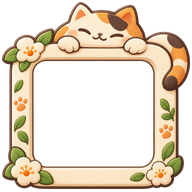
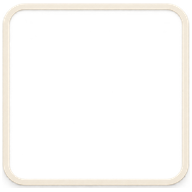
Complete ui assets: panel

diff --git a/app/assets/ui/provenance/prompts-panel.md b/app/assets/ui/provenance/prompts-panel.md
@@ -1,0 +1,102 @@
+# UI assets: panel
+
+Built-in image_gen; camera scrims and soft shadow retain the procedural corrections from commit e79fd55. References: docs/ui-reference/01-home.webp,02-zukan.webp,03-deai.webp,04-world.webp (style only, no crops).
+
+## panel/card-cream.png
+
+Final: 192x192 PNG.
+
+Prompt: Create one empty cream square UI card asset, final192x192, rounded radius48 corners, target iOS cozy cat collection UI. Warm #FFF8F0 lightly textured paper, very subtle puffy edge upper-left ivory highlight, soft low contrast downward shadow. Straight-on, no perspective, no text, no icons, no decoration. Plain stretch-safe center and edge middle bands24px minimum for9slice. Card fills canvas except tiny shadow clearance. Real transparent background clean alpha no matte. Match reference app cream cards.
+
+Processing: Trim alpha margin and proportionally fit exact canvas without stretching
+
+Source: C:\Users\User\.codex\generated_images\01a16dc8-84e9-7e73-953c-375657e785a2\exec-843ea2d4-22b9-4ae5-97b1-143df2ce0b25.png
+
+## panel/card-white.png
+
+Final: 192x192 PNG.
+
+Prompt: Create ONE standalone production raster UI asset for Nekomobby cozy Japanese iOS collection game: Blank white card radius48 9slice. File panel/card-white.png. Target aspect 192:192, final exact 192x192px. Warm cream #FFF8F0 dark brown #4A3B32 orange #F28B20 green #5E9B3F. Restrained warm paper texture, thick rounded shapes, subtle upper-left illumination and very low contrast downward shadow. Minimal bevel, avoid thick glossy plastic. Absolutely NO text letters numbers labels or watermark. Orthographic straight-on isolated graphic, clean simple silhouette, centered with small clearance. True transparent background, smooth clean alpha no white matte no stray flecks. Not a screen mockup. Match docs/ui-reference cozy style.
+
+Processing: Trim alpha margin and proportionally fit exact canvas without stretching
+
+Source: C:\Users\User\.codex\generated_images\01a16dc8-84e9-7e73-953c-375657e785a2\exec-62e847bc-9f92-4706-a8eb-20f6c5219e03.png
+
+## panel/card-selected.png
+
+Final: 192x192 PNG.
+
+Prompt: Create ONE standalone production raster UI asset for Nekomobby cozy Japanese iOS collection game: Blank cream card orange border radius48 9slice. File panel/card-selected.png. Target aspect 192:192, final exact 192x192px. Warm cream #FFF8F0 dark brown #4A3B32 orange #F28B20 green #5E9B3F. Restrained warm paper texture, thick rounded shapes, subtle upper-left illumination and very low contrast downward shadow. Minimal bevel, avoid thick glossy plastic. Absolutely NO text letters numbers labels or watermark. Orthographic straight-on isolated graphic, clean simple silhouette, centered with small clearance. True transparent background, smooth clean alpha no white matte no stray flecks. Not a screen mockup. Match docs/ui-reference cozy style.
+
+Processing: Trim alpha margin and proportionally fit exact canvas without stretching
+
+Source: C:\Users\User\.codex\generated_images\01a16dc8-84e9-7e73-953c-375657e785a2\exec-7bdedffe-f7af-4e46-8259-6b338d7d9b64.png
+
+## panel/card-locked.png
+
+Final: 192x192 PNG.
+
+Prompt: Edit this empty cream card. Change only fill to muted grey beige for an unowned state. Keep same rounded square geometry and understated soft paper shading. Completely EMPTY interior. No lock no icons no leaves no flowers no cat no decoration. True transparent surrounding background. Final192x192.
+
+Processing: Trim alpha margin and proportionally fit exact canvas without stretching
+
+Source: C:\Users\User\.codex\generated_images\01a16dc8-84e9-7e73-953c-375657e785a2\exec-711f1af1-5262-4d2c-b00b-ff1a2f8a318f.png
+
+Superseded attempt: C:\Users\User\.codex\generated_images\01a16dc8-84e9-7e73-953c-375657e785a2\exec-e8cac899-c8ce-4486-9dfb-badf08e8c3fb.png
+
+Prompt: Create ONE standalone production raster UI asset for Nekomobby cozy Japanese iOS collection game: Blank muted beige card radius48 9slice. File panel/card-locked.png. Target aspect 192:192, final exact 192x192px. Warm cream #FFF8F0 dark brown #4A3B32 orange #F28B20 green #5E9B3F. Restrained warm paper texture, thick rounded shapes, subtle upper-left illumination and very low contrast downward shadow. Minimal bevel, avoid thick glossy plastic. Absolutely NO text letters numbers labels or watermark. Orthographic straight-on isolated graphic, clean simple silhouette, centered with small clearance. True transparent background, smooth clean alpha no white matte no stray flecks. Not a screen mockup. Match docs/ui-reference cozy style.
+
+## panel/frame-cat-photo.png
+
+Final: 192x192 PNG.
+
+Prompt: Single simple empty ivory rounded square photo frame. Thin cream border only radius36 at final192x192. Center completely transparent. NO cats NO figures NO flowers NO leaves NO motifs NO text. Plain understated paper surface soft downward shadow. Orthographic front view. True transparency.
+
+Processing: Trim alpha margin and proportionally fit exact canvas without stretching
+
+Source: C:\Users\User\.codex\generated_images\01a16dc8-84e9-7e73-953c-375657e785a2\exec-2581382b-1f69-4954-8951-1c8489e78cc8.png
+
+Superseded attempt: C:\Users\User\.codex\generated_images\01a16dc8-84e9-7e73-953c-375657e785a2\exec-d475896e-df8b-4457-ac88-efb6302b020a.png
+
+Prompt: Create ONE standalone production raster UI asset for Nekomobby cozy Japanese iOS collection game: Hollow cream photo frame radius36 transparent central opening. File panel/frame-cat-photo.png. Target aspect 192:192, final exact 192x192px. Warm cream #FFF8F0 dark brown #4A3B32 orange #F28B20 green #5E9B3F. Restrained warm paper texture, thick rounded shapes, subtle upper-left illumination and very low contrast downward shadow. Minimal bevel, avoid thick glossy plastic. Absolutely NO text letters numbers labels or watermark. Orthographic straight-on isolated graphic, clean simple silhouette, centered with small clearance. True transparent background, smooth clean alpha no white matte no stray flecks. Not a screen mockup. Match docs/ui-reference cozy style.
+
+## panel/pill-info.png
+
+Final: 300x132 PNG.
+
+Prompt: Create ONE standalone production raster UI asset for Nekomobby cozy Japanese iOS collection game: Blank cream information pill radius66 9slice. File panel/pill-info.png. Target aspect 300:132, final exact 300x132px. Warm cream #FFF8F0 dark brown #4A3B32 orange #F28B20 green #5E9B3F. Restrained warm paper texture, thick rounded shapes, subtle upper-left illumination and very low contrast downward shadow. Minimal bevel, avoid thick glossy plastic. Absolutely NO text letters numbers labels or watermark. Orthographic straight-on isolated graphic, clean simple silhouette, centered with small clearance. True transparent background, smooth clean alpha no white matte no stray flecks. Not a screen mockup. Match docs/ui-reference cozy style.
+
+Processing: Trim alpha margin and proportionally fit exact canvas without stretching
+
+Source: C:\Users\User\.codex\generated_images\01a16dc8-84e9-7e73-953c-375657e785a2\exec-03cec8cb-2d57-4ea7-be81-8741a279552d.png
+
+## panel/pill-currency.png
+
+Final: 420x132 PNG.
+
+Prompt: Create ONE standalone production raster UI asset for Nekomobby cozy Japanese iOS collection game: Blank cream currency pill radius66 9slice. File panel/pill-currency.png. Target aspect 420:132, final exact 420x132px. Warm cream #FFF8F0 dark brown #4A3B32 orange #F28B20 green #5E9B3F. Restrained warm paper texture, thick rounded shapes, subtle upper-left illumination and very low contrast downward shadow. Minimal bevel, avoid thick glossy plastic. Absolutely NO text letters numbers labels or watermark. Orthographic straight-on isolated graphic, clean simple silhouette, centered with small clearance. True transparent background, smooth clean alpha no white matte no stray flecks. Not a screen mockup. Match docs/ui-reference cozy style.
+
+Processing: Trim alpha margin and proportionally fit exact canvas without stretching
+
+Source: C:\Users\User\.codex\generated_images\01a16dc8-84e9-7e73-953c-375657e785a2\exec-06e79285-b9e3-4a2d-89a4-33866d0b7892.png
+
+## panel/polaroid.png
+
+Final: 360x420 PNG.
+
+Prompt: Create ONE standalone production raster UI asset for Nekomobby cozy Japanese iOS collection game: Ivory polaroid frame transparent photo opening x24 y24 width312 height312, lower border84. File panel/polaroid.png. Target aspect 360:420, final exact 360x420px. Warm cream #FFF8F0 dark brown #4A3B32 orange #F28B20 green #5E9B3F. Restrained warm paper texture, thick rounded shapes, subtle upper-left illumination and very low contrast downward shadow. Minimal bevel, avoid thick glossy plastic. Absolutely NO text letters numbers labels or watermark. Orthographic straight-on isolated graphic, clean simple silhouette, centered with small clearance. True transparent background, smooth clean alpha no white matte no stray flecks. Not a screen mockup. Match docs/ui-reference cozy style.
+
+Processing: Piecewise resize generated frame borders to exact24/24/84/24 margins; transparent312x312 aperture
+
+Source: C:\Users\User\.codex\generated_images\01a16dc8-84e9-7e73-953c-375657e785a2\exec-b9067f11-7bf4-4e24-a2b2-82317dca56df.png
+
+## panel/sheet-bottom.png
+
+Final: 1179x300 PNG.
+
+Prompt: Create ONE standalone production raster UI asset for Nekomobby cozy Japanese iOS collection game: Blank cream bottom sheet top corners radius72 bottom corners square 9slice. File panel/sheet-bottom.png. Target aspect 1179:300, final exact 1179x300px. Warm cream #FFF8F0 dark brown #4A3B32 orange #F28B20 green #5E9B3F. Restrained warm paper texture, thick rounded shapes, subtle upper-left illumination and very low contrast downward shadow. Minimal bevel, avoid thick glossy plastic. Absolutely NO text letters numbers labels or watermark. Orthographic straight-on isolated graphic, clean simple silhouette, centered with small clearance. True transparent background, smooth clean alpha no white matte no stray flecks. Not a screen mockup. Match docs/ui-reference cozy style.
+
+Processing: Trim alpha margin and proportionally fit exact canvas without stretching
+
+Source: C:\Users\User\.codex\generated_images\01a16dc8-84e9-7e73-953c-375657e785a2\exec-9bd264ef-7d7b-4c7c-a502-e9506e7fc0ec.png
+
